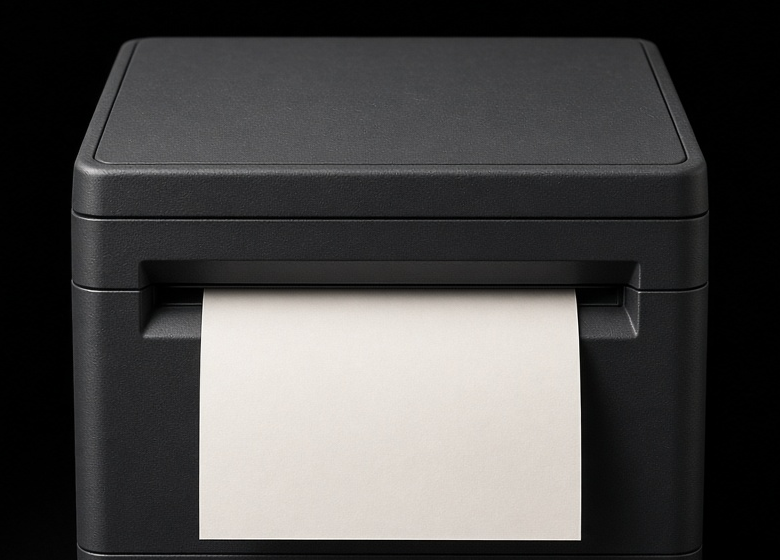
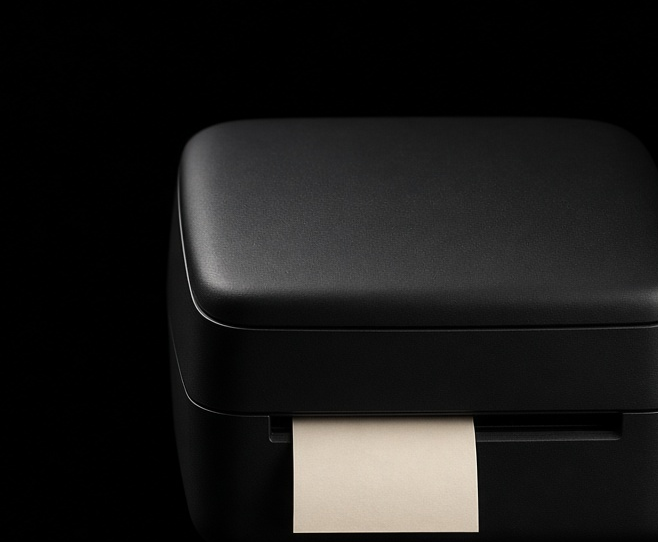
Knock the printer onto black and make the zero monumental
Remove the studio card, bleed the slip off the fold, keep one access
line, and print the receipt in thermal grey.

diff --git a/client/src/pages/home.css b/client/src/pages/home.css
@@ -341,7 +341,7 @@
   position: relative;
   z-index: 4;
   display: grid;
-  grid-template-columns: minmax(0, 1fr) min(40rem, 46vw);
+  grid-template-columns: minmax(0, 1fr) min(38rem, 44vw);
   align-items: start;
   width: min(100% - 3.5rem, 1220px);
   height: calc(100vh - 68px);
@@ -351,57 +351,62 @@
 .lg-void-copy {
   position: relative;
   z-index: 6;
-  padding: 5.4rem 0 0;
-  margin-right: -5.5rem;
+  padding: 1.15rem 0 0;
+  margin-right: -3.2rem;
 }
 
 .lg-void-copy h1 {
   display: flex;
-  align-items: center;
-  gap: 0.1em;
-  margin: 0 0 1.1rem;
+  flex-direction: column;
+  align-items: flex-start;
+  gap: 0.12em;
+  margin: 0 0 1.35rem;
   color: #f2eadc;
   font-family: var(--sans);
-  font-size: clamp(3.2rem, 6vw, 5.1rem);
+  font-size: clamp(7.2rem, 16vw, 10.4rem);
   font-weight: 500;
-  line-height: 0.9;
-  letter-spacing: -0.045em;
-  white-space: nowrap;
+  line-height: 0.82;
+  letter-spacing: -0.05em;
 }
 
 .lg-void-copy h1 b {
+  font-size: 0.2em;
   font-weight: 500;
+  letter-spacing: -0.04em;
+  line-height: 1;
 }
 
 .lg-void-copy .lg-zero-hero {
   flex: 0 0 auto;
-  width: 0.62em;
-  height: 0.88em;
+  width: 0.58em;
+  height: 0.82em;
   color: #f2eadc;
 }
 
 .lg-void-copy > p {
-  max-width: 22rem;
-  margin: 0 0 1.6rem;
+  max-width: 26rem;
+  margin: 0 0 1.7rem;
   color: #cbbfaa;
   font-family: var(--sans);
-  font-size: 1.2rem;
+  font-size: 1.18rem;
   line-height: 1.45;
 }
 
 .lg-void-cta {
   color: #f2eadc !important;
   font-family: var(--sans);
-  font-size: 1.05rem;
-  text-decoration: underline;
-  text-underline-offset: 0.22em;
+  font-size: 1.12rem;
+  text-decoration: none;
+  border-bottom: 1px solid #f2eadc;
+  padding-bottom: 0.12rem;
 }
 
 .lg-void-object {
   position: relative;
   z-index: 5;
   width: 100%;
-  filter: drop-shadow(1.1rem 2.2rem 2.4rem rgba(0, 0, 0, 0.7));
+  height: calc(100vh - 68px);
+  overflow: hidden;
 }
 
 .lg-void-printer {
@@ -413,16 +418,29 @@
 .lg-void-slip {
   position: relative;
   z-index: 2;
-  width: 48.8%;
-  margin: -11.6rem auto 0;
-  padding: 0.85rem 0.95rem 0;
-  color: #141310;
+  width: 45.3%;
+  margin: -12.4rem auto 0;
+  padding: 0.85rem 0.9rem 7rem;
+  color: #3a362e;
   background-color: #e6decc;
   background-image: url("/generated/thermal_banding_sheet.png");
   background-size: 100% auto;
   box-shadow:
+    0 -10px 12px -9px rgba(0, 0, 0, 0.5),
     inset 8px 0 10px -10px rgba(40, 28, 12, 0.3),
     inset -8px 0 10px -10px rgba(40, 28, 12, 0.3);
+}
+
+.lg-void-slip::before {
+  content: "";
+  position: absolute;
+  top: 0;
+  right: 0;
+  left: 0;
+  z-index: 3;
+  height: 1.35rem;
+  pointer-events: none;
+  background: linear-gradient(180deg, rgba(20, 16, 10, 0.3), transparent);
 }
 
 .lg-void-heat {
@@ -473,7 +491,7 @@
 }
 
 .lg-void-slip dt {
-  color: #5c584e;
+  color: #6a6458;
   font-size: 0.62rem;
   letter-spacing: 0.03em;
   text-transform: uppercase;
@@ -481,7 +499,7 @@
 
 .lg-void-slip dd {
   margin: 0;
-  color: #141310;
+  color: #3a362e;
   font-size: 0.68rem;
   line-height: 1.3;
 }
@@ -503,7 +521,7 @@
 }
 
 .lg-void-hash b {
-  color: #141310;
+  color: #3a362e;
   font-size: 0.6rem;
   font-weight: 400;
 }
@@ -518,7 +536,7 @@
 }
 
 .lg-void-total dt {
-  color: #141310;
+  color: #3a362e;
   font-size: 0.72rem;
   letter-spacing: 0.05em;
   text-transform: uppercase;
@@ -566,7 +584,7 @@
 
 .lg-void-slip footer span,
 .lg-void-verify {
-  color: #141310 !important;
+  color: #3a362e !important;
   font-family: var(--mono);
   font-size: 0.62rem;
 }
@@ -578,8 +596,8 @@
 
 .lg-void-tear {
   display: block;
-  width: calc(100% + 1.9rem);
-  margin: 0.35rem -0.95rem 0;
+  width: calc(100% + 1.8rem);
+  margin: 2.4rem -0.9rem 0;
   pointer-events: none;
 }
 

diff --git a/client/src/pages/Home.tsx b/client/src/pages/Home.tsx
@@ -278,9 +278,6 @@ export default function Home() {
                   {item.label}
                 </a>
               ))}
-              <a className="lg-nav-cta" href="mailto:contact@lugano.ai">
-                Get access
-              </a>
             </nav>
             <button
               className="lg-menu-btn"
@@ -310,7 +307,7 @@ export default function Home() {
               <ZeroMark className="lg-zero-hero" />
               <b>bytes retained</b>
             </h1>
-            <p>Frontier models. Sealed execution. Proof on every run.</p>
+            <p>Frontier models that run sealed and leave a receipt.</p>
             <a className="lg-void-cta" href="mailto:contact@lugano.ai">
               Get access
             </a>
@@ -389,7 +386,7 @@ export default function Home() {
                   </a>
                 </div>
               </footer>
-              <img className="lg-void-tear" src="/generated/paper_fiber_tear.png" alt="" />
+              <img className="lg-void-tear" src="/generated/cream_thermal_tear.png" alt="" />
             </article>
           </aside>
         </section>
